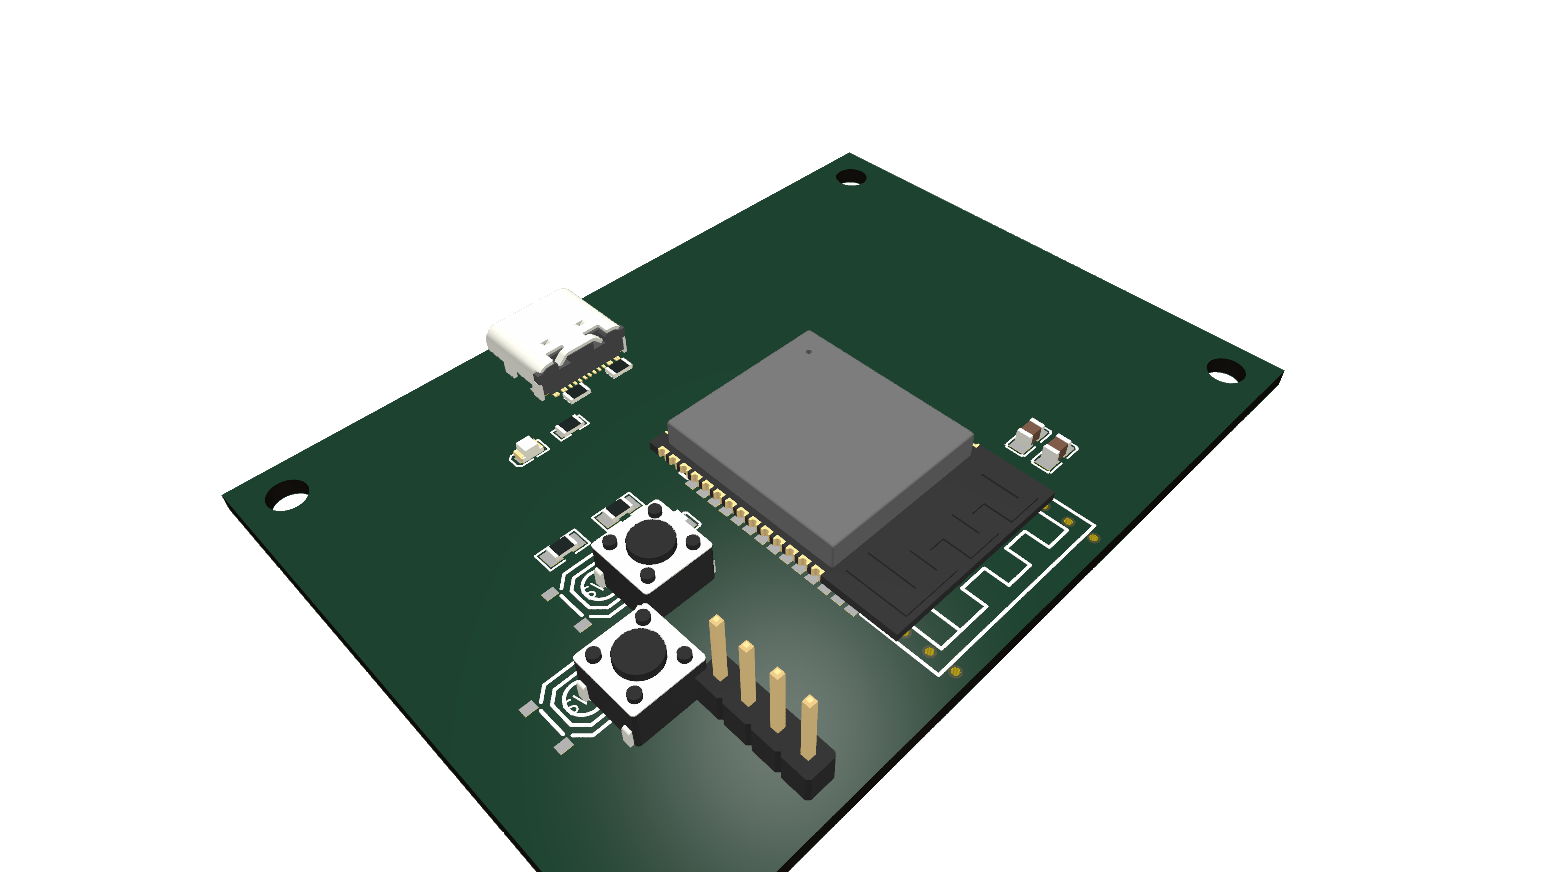
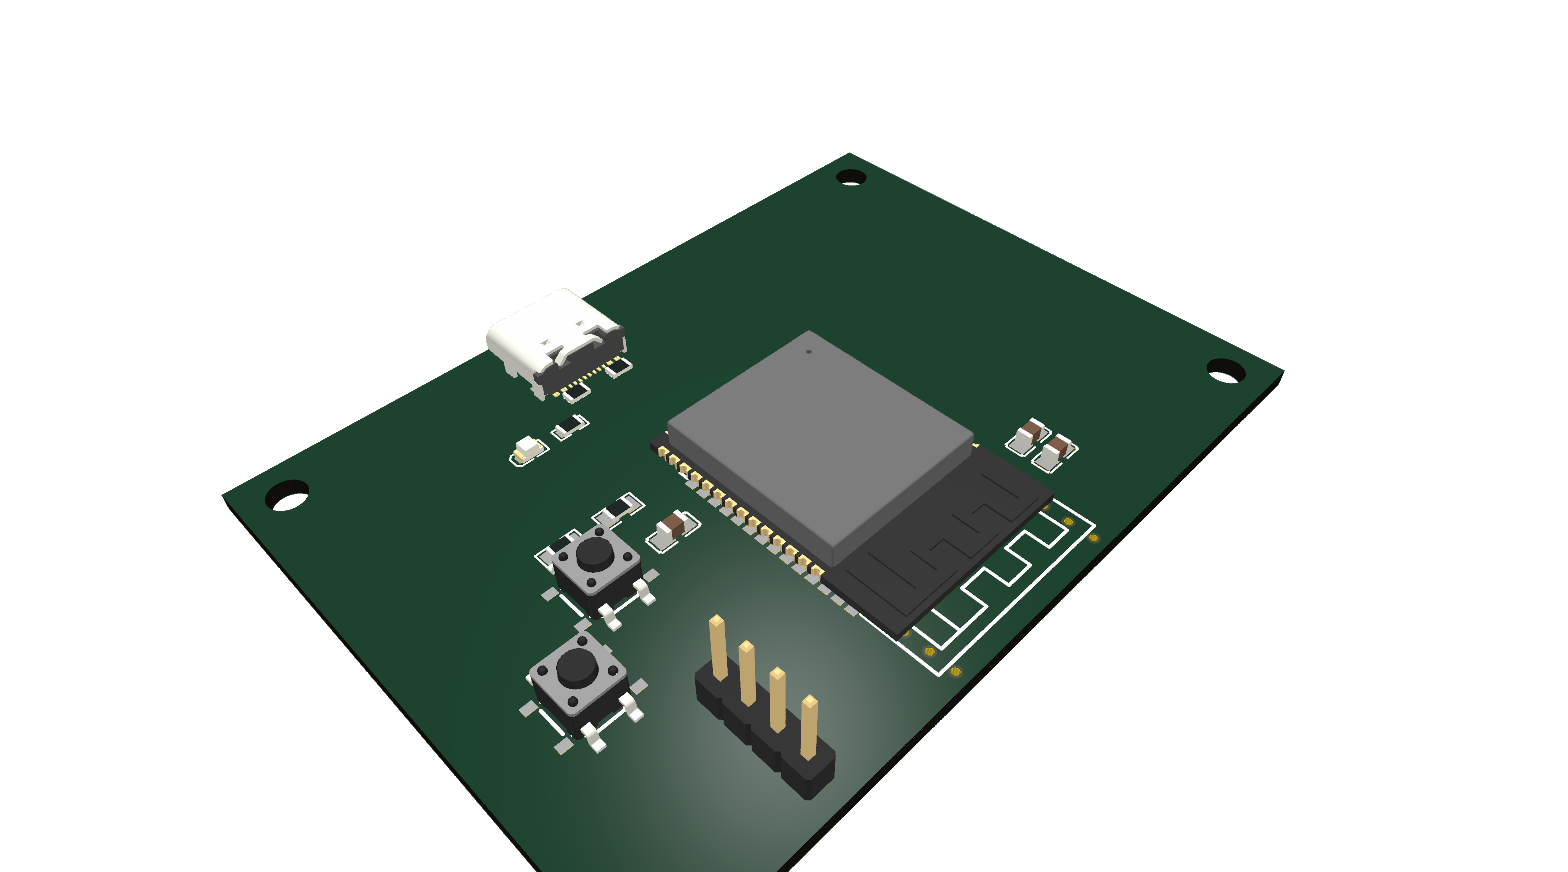
pcb-review: iter11 — antenna via fence inner row, SW 3D model fix, 2D keepout rendering
- Fix antenna via fence: exclude RF module from footprint filtering so
  vias are placed along the processor-antenna boundary (inner edge)
  Previously only left/right sides had vias, inner row was filtered out.
  Now 21 vias across 3 sides (inner, left, right).
- Fix tactile switch 3D model: use SMD model (SW_SPST_TL3305A.step)
  instead of THT (SW_PUSH_6mm.step) for SMD-pad footprints
- Add keepout zone overlay to kicad-image-gen 2D renders:
  semi-transparent red polygons with dashed outlines injected into SVG

Changed region(s): [[0.3125, 0.5573, 0.4688, 0.867]]

diff --git a/src/kicad_pipeline/visualization/kicad_export.py b/src/kicad_pipeline/visualization/kicad_export.py
@@ -20,6 +20,7 @@ from __future__ import annotations
 
 import logging
 import os
+import re
 import shutil
 import subprocess
 import tempfile
@@ -81,6 +82,7 @@ def export_pcb_image(
     if svg_path is not None:
         if pcb is not None:
             _inject_ratsnest_into_svg(svg_path, pcb)
+        _inject_keepouts_into_svg(svg_path, pcb_path)
         png_path = _convert_svg_to_png(svg_path, output_path, width)
         if png_path is not None:
             logger.info("Hi-fi export (SVG→PNG) written to %s", png_path)
@@ -383,6 +385,120 @@ def _inject_ratsnest_into_svg(svg_path: Path, pcb: PCBDesign) -> None:
     if line_count > 0:
         tree.write(str(svg_path), xml_declaration=True, encoding="unicode")
         logger.info("Injected %d ratsnest lines into SVG", line_count)
+
+
+# ---------------------------------------------------------------------------
+# Keepout zone SVG injection
+# ---------------------------------------------------------------------------
+
+_KEEPOUT_FILL = "#ff2222"
+_KEEPOUT_FILL_OPACITY = "0.18"
+_KEEPOUT_STROKE = "#ff4444"
+_KEEPOUT_STROKE_WIDTH = "0.25"
+_KEEPOUT_STROKE_OPACITY = "0.6"
+
+
+def _parse_keepout_zones(pcb_path: Path) -> list[list[tuple[float, float]]]:
+    """Parse keepout zone polygons from a .kicad_pcb file.
+
+    Finds all ``(zone ...)`` blocks that contain a ``(keepout ...)`` child,
+    extracts the ``(polygon (pts (xy ...) ...))`` points, and returns them
+    as a list of polygon point lists.
+    """
+    text = pcb_path.read_text(encoding="utf-8")
+    polygons: list[list[tuple[float, float]]] = []
+
+    # Find top-level (zone blocks by matching balanced parens
+    zone_starts = [m.start() for m in re.finditer(r"^\s+\(zone\b", text, re.MULTILINE)]
+    for start in zone_starts:
+        # Extract the full zone block by balancing parentheses
+        depth = 0
+        end = start
+        for i in range(start, min(start + 5000, len(text))):
+            if text[i] == "(":
+                depth += 1
+            elif text[i] == ")":
+                depth -= 1
+                if depth == 0:
+                    end = i + 1
+                    break
+        block = text[start:end]
+
+        # Only process zones with a keepout child
+        if "(keepout" not in block:
+            continue
+
+        # Extract polygon points: (polygon (pts (xy X Y) (xy X Y) ...))
+        # Use balanced-paren search for (pts ...) to avoid regex greediness issues
+        pts_start = block.find("(pts")
+        if pts_start < 0:
+            continue
+        # Find the matching closing paren for (pts ...)
+        pts_depth = 0
+        pts_end = pts_start
+        for pi in range(pts_start, len(block)):
+            if block[pi] == "(":
+                pts_depth += 1
+            elif block[pi] == ")":
+                pts_depth -= 1
+                if pts_depth == 0:
+                    pts_end = pi + 1
+                    break
+        pts_block = block[pts_start:pts_end]
+
+        xy_matches = re.findall(r"\(xy\s+([-\d.]+)\s+([-\d.]+)\)", pts_block)
+        if len(xy_matches) >= 3:
+            points = [(float(x), float(y)) for x, y in xy_matches]
+            polygons.append(points)
+
+    return polygons
+
+
+def _inject_keepouts_into_svg(svg_path: Path, pcb_path: Path) -> None:
+    """Inject keepout zone polygons as semi-transparent red overlays into an SVG.
+
+    Parses keepout zones from the PCB file and adds them as SVG polygon
+    elements. The SVG viewBox uses the same mm coordinates as the PCB,
+    so no coordinate transform is needed beyond what kicad-cli already set up.
+
+    Args:
+        svg_path: Path to the SVG file to modify in place.
+        pcb_path: Path to the .kicad_pcb file to read keepouts from.
+    """
+    keepouts = _parse_keepout_zones(pcb_path)
+    if not keepouts:
+        return
+
+    ET.register_namespace("", _SVG_NS)
+    try:
+        tree = ET.parse(str(svg_path))
+    except ET.ParseError:
+        logger.warning("Failed to parse SVG for keepout injection")
+        return
+
+    root = tree.getroot()
+    viewbox = root.get("viewBox")
+    if not viewbox:
+        logger.debug("SVG has no viewBox — skipping keepout injection")
+        return
+
+    # Build keepout group
+    keepout_group = ET.SubElement(root, f"{{{_SVG_NS}}}g")
+    keepout_group.set("id", "keepout-zones")
+
+    for points in keepouts:
+        pts_str = " ".join(f"{x:.4f},{y:.4f}" for x, y in points)
+        polygon = ET.SubElement(keepout_group, f"{{{_SVG_NS}}}polygon")
+        polygon.set("points", pts_str)
+        polygon.set("fill", _KEEPOUT_FILL)
+        polygon.set("fill-opacity", _KEEPOUT_FILL_OPACITY)
+        polygon.set("stroke", _KEEPOUT_STROKE)
+        polygon.set("stroke-width", _KEEPOUT_STROKE_WIDTH)
+        polygon.set("stroke-opacity", _KEEPOUT_STROKE_OPACITY)
+        polygon.set("stroke-dasharray", "0.5,0.3")
+
+    tree.write(str(svg_path), xml_declaration=True, encoding="unicode")
+    logger.info("Injected %d keepout zone overlays into SVG", len(keepouts))
 
 
 def _cleanup_temp_svg(svg_path: Path) -> None:

diff --git a/src/kicad_pipeline/pcb/zone_builder.py b/src/kicad_pipeline/pcb/zone_builder.py
@@ -437,7 +437,27 @@ def make_rf_via_fence(
             continue
 
         pts = list(ko.polygon)
-        fp_boxes = _build_rf_fp_boxes(footprints)
+
+        # Exclude RF module footprints whose pad bbox overlaps the keepout.
+        # The via fence runs along the keepout perimeter, and the RF module's
+        # large pad extent would otherwise block the inner-edge via row
+        # (the row at the processor-antenna boundary).
+        ko_xs = [p.x for p in pts]
+        ko_ys = [p.y for p in pts]
+        ko_min_x, ko_max_x = min(ko_xs), max(ko_xs)
+        ko_min_y, ko_max_y = min(ko_ys), max(ko_ys)
+        rf_fp_boxes = _build_rf_fp_boxes(footprints)
+        non_rf_fps: list[Footprint] = []
+        for idx, fp in enumerate(footprints):
+            # Check if this footprint's pad bbox overlaps the keepout bbox.
+            # If it does, it's the RF module — exclude it from via filtering.
+            if idx < len(rf_fp_boxes):
+                bx0, by0, bx1, by1 = rf_fp_boxes[idx]
+                if (bx0 < ko_max_x and bx1 > ko_min_x
+                        and by0 < ko_max_y and by1 > ko_min_y):
+                    continue
+            non_rf_fps.append(fp)
+        fp_boxes = _build_rf_fp_boxes(tuple(non_rf_fps))
 
         cx = sum(p.x for p in pts) / len(pts)
         cy = sum(p.y for p in pts) / len(pts)

diff --git a/src/kicad_pipeline/pcb/footprints.py b/src/kicad_pipeline/pcb/footprints.py
@@ -261,7 +261,11 @@ def _model_switch(
                 "SW_SPST_EVQPE1.step"
             )
         else:
-            path = f"{KICAD_3DMODEL_VAR}/Button_Switch_THT.3dshapes/SW_PUSH_6mm.step"
+            # SMD pad geometry (e.g. make_tact_switch) — use SMD model + 90° rotation
+            return Footprint3DModel(
+                path=f"{KICAD_3DMODEL_VAR}/Button_Switch_SMD.3dshapes/SW_SPST_TL3305A.step",
+                rotate=(0.0, 0.0, 90.0),
+            )
         return Footprint3DModel(path=path)
     return None
 
